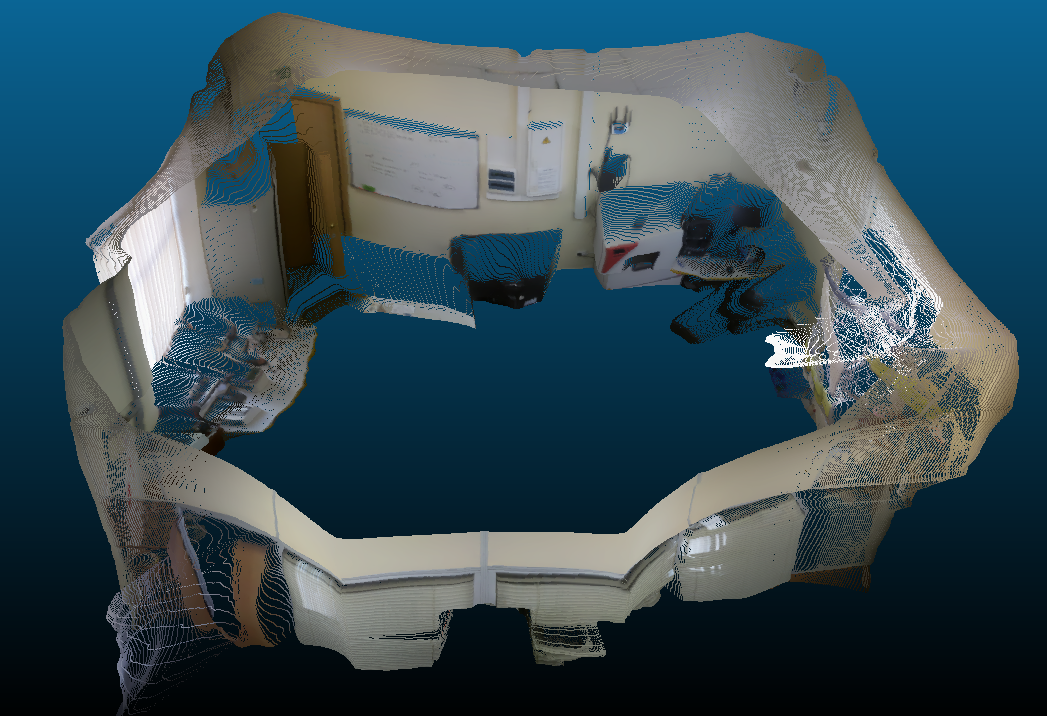
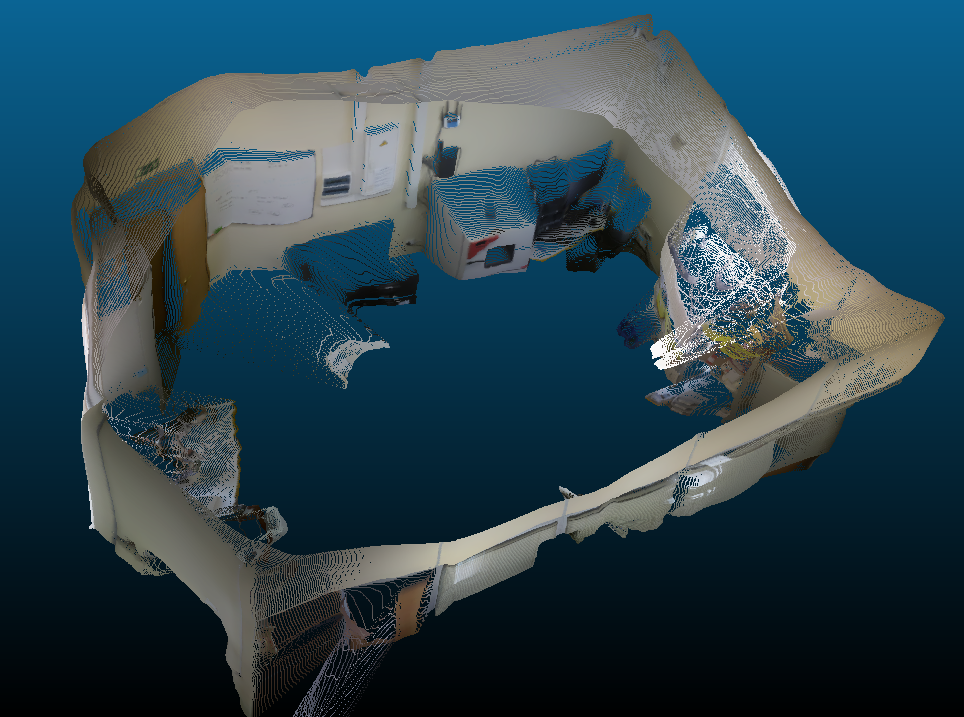
update algorithm match edges

diff --git a/match_difference.py b/match_difference.py
@@ -67,7 +67,7 @@ def calib_mask(dup_l,dup_r,threshold):
     mask_right=np.zeros((len(dup_r),len(dup_r[0])))
     for i in range(len(dup_l)):
         for j in range(len(dup_l[0])):
-            if (dup_l[i,j]>threshold and dup_r[i-1,j]>threshold) or (dup_l[i,j]<threshold and dup_r[i-1,j]<threshold):
+            if (dup_l[i,j]>threshold and dup_r[i-1,j]>threshold)or (dup_l[i,j]<threshold and dup_r[i-1,j]<threshold):
                 mask_left[i][j] = 0
             elif dup_l[i,j]>threshold and dup_r[i-1,j]<threshold:
                 mask_left[i][j] = 1
@@ -152,49 +152,6 @@ def delta_update(delta,flag):
                 delta_n[i] = 0
     return delta_n         
 
-def calib_depth(depths,mask_left,mask_right,delta):
-    depths_calib = [row.copy() for row in depths]
-    dy = np.array([(delta[:,i+5]-delta[:,i])/5 for i in range(len(delta[0])-5)]).T
-    last_colum = dy[:,-1]
-    for i in range(5):
-        dy = np.append(dy,last_colum[:,np.newaxis],axis=1)
-    for index in range(len(depths)):
-        # print(dy[index])
-        arg = np.argwhere(np.abs(dy[index])>0.04).flatten()
-        if len(arg) > 1:
-            new_arg = [arg[0]]
-            for i in range(1,len(arg)):
-                if arg[i]-arg[i-1]>1:
-                    new_arg = np.append(new_arg,arg[i])
-            if arg[-1]-arg[-2]==1:
-                new_arg[-1] = arg[-1]
-            new_arg =[x for x in new_arg if x>10 and x<len(dy[index])-10]
-            print(index,new_arg)
-            check = np.zeros(len(new_arg))
-            for i in range(len(new_arg)-1):
-                print(mask_left[index][new_arg[i]:new_arg[i+1]])
-                if np.sum(mask_left[index][new_arg[i]:new_arg[i+1]]==0)/(new_arg[i+1]-new_arg[i]) < 0.5:
-                    check[i] = True
-                    if i>0 and check[i-1] == True:
-                        delta[index][new_arg[i]:new_arg[i+1]] = np.full(new_arg[i+1]-new_arg[i],delta[index][new_arg[i-1]])
-                    else:
-                        delta[index][new_arg[i]:new_arg[i+1]] = np.full(new_arg[i+1]-new_arg[i],delta[index][new_arg[i]])
-    for index in range(len(depths)):
-        p1 = np.sum(delta[index]>0)/(len(delta[index]))
-        p2 = np.sum(delta[index]<0)/(len(delta[index]))
-        p3 = np.sum(delta[index-1]>0)/(len(delta[index-1]))
-        p4 = np.sum(delta[index-1]<0)/(len(delta[index-1]))
-        if (p1>0.9 and p4>0.9) or (p2>0.9 and p3>0.9):
-            for i in range(0,len(depths[index-1][0])):
-                depths_calib[index-1][:,i] += (-delta[index-1]/2*(len(depths[index-1][0])-1-i)+delta[index]/2*i)/(len(depths[index-1][0])-1)
-        else:
-            center = int(len(depths[index-1][0])/2)
-            for i in range(0,center):        
-                depths_calib[index-1][:,i] += -delta[index-1]/2*(1-i/center)
-            for i in range(-1,-center,-1):
-                depths_calib[index-1][:,i] += delta[index]/2*(1-abs(i+1)/center)
-    return depths_calib
- 
 def new_depth(depths,mask_left,mask_right,delta):
     depths_new = [row.copy() for row in depths]
     dy = np.array([(delta[:,i+5]-delta[:,i])/5 for i in range(len(delta[0])-5)]).T
@@ -214,6 +171,63 @@ def new_depth(depths,mask_left,mask_right,delta):
             depths_new[index-1][:,i] += new_delta/2*(1-abs(i+1)/center)
     return depths_new
 
+def calib_depth(depths,dup_left,dup_right,delta,step_diff,threshold):
+    depths_calib = [row.copy() for row in depths]
+    dy = np.array([(delta[:,i+step_diff]-delta[:,i]) for i in range(len(delta[0])-step_diff)]).T
+    last_colum = dy[:,-1]
+    for i in range(int(step_diff/2)):
+        dy = np.insert(dy,i,last_colum,axis=1)
+    for i in range(int(step_diff/2),step_diff):
+        dy = np.append(dy,last_colum[:,np.newaxis],axis=1)
+    for index in range(len(depths)):
+        # print(dy[index])
+        arg = np.argwhere(np.abs(dy[index])>0.18).flatten()
+        if len(arg) > 1:
+            # if arg[0]<10:
+            # arg = np.insert(arg,0,0)
+            # # if arg[-1]>depths[index].shape[1]-10:
+            # arg = np.append(arg,depths[index].shape[1]-2)
+            # arg = np.append(arg,depths[index].shape[1]-1)
+            new_arg = [0]
+            for i in range(1,len(arg)):
+                if arg[i]-arg[i-1]>1:
+                    new_arg = np.append(new_arg,arg[i-1])
+            if arg[-1]-arg[-2]==1:
+                new_arg = np.append(new_arg,arg[-1])
+            new_arg = np.append(new_arg,len(delta[index])-1)
+            # new_arg =[x for x in new_arg if x>10 and x<len(dy[index])-10]
+            print(index,arg,new_arg)
+            check = np.zeros(len(new_arg))
+            for i in range(len(new_arg)-1):
+                print(dup_left[index][new_arg[i]:new_arg[i+1]])
+                print(dup_right[index-1][new_arg[i]:new_arg[i+1]])
+                if np.sum((dup_left[index][new_arg[i]:new_arg[i+1]]>=threshold) &\
+                    (dup_right[index-1][new_arg[i]:new_arg[i+1]]>=threshold))/(new_arg[i+1]-new_arg[i]) < 0.75\
+                    and new_arg[i+1]-new_arg[i]<len(delta[index])/2:
+                    check[i] = True
+                    if new_arg[i]==0:
+                        delta[index][new_arg[i]:new_arg[i+1]] = np.zeros(new_arg[i+1]-new_arg[i])
+                    elif i>0 and check[i-1] == True:
+                        delta[index][new_arg[i]:new_arg[i+1]] = np.full(new_arg[i+1]-new_arg[i],delta[index][new_arg[i-1]])
+                    else:
+                        delta[index][new_arg[i]:new_arg[i+1]] = np.full(new_arg[i+1]-new_arg[i],delta[index][new_arg[i]])
+    for index in range(len(depths)):
+        #Check if left and right egdes are needed to turn one way
+        p1 = np.sum(delta[index]>0)/(len(delta[index]))
+        p2 = np.sum(delta[index]<0)/(len(delta[index]))
+        p3 = np.sum(delta[index-1]>0)/(len(delta[index-1]))
+        p4 = np.sum(delta[index-1]<0)/(len(delta[index-1]))
+        if (p1>0.9 and p4>0.9) or (p2>0.9 and p3>0.9):
+            for i in range(0,len(depths[index-1][0])):
+                depths_calib[index-1][:,i] += (-delta[index-1]/2*(len(depths[index-1][0])-1-i)+delta[index]/2*i)/(len(depths[index-1][0])-1)
+        else:
+            center = int(len(depths[index-1][0])/2)
+            for i in range(0,center):        
+                depths_calib[index-1][:,i] += -delta[index-1]/2*(1-i/center)
+            for i in range(-1,-center,-1):
+                depths_calib[index-1][:,i] += delta[index]/2*(1-abs(i+1)/center)
+    return depths_calib,dy
+
 def match_diff(args):    
     depths = []
     images = []
@@ -221,22 +235,23 @@ def match_diff(args):
     for index in range(int(args.divide)):
         img = cv2.imread("{0}/{1}/{3}/img/{1}-{2}-{3}.png".format(args.inout_directory,args.folder,index,args.shift),cv2.IMREAD_COLOR)
         # print(img.shape)
-        depth = np.load("{0}/{1}/{3}/first_depth/{1}-depth-{2}-{3}.npy".format(args.inout_directory,args.folder,index,args.shift))
+        depth = np.load("{0}/{1}/{3}/calib_param/{1}-depth-{2}-{3}.npy".format(args.inout_directory,args.folder,index,args.shift))
         # depth = np.polyval(coeff,depth)
         depths.append(depth)
         images.append(img)
 
     dup_left = calib_hoz_left(images,25,5,5)
     dup_right = calib_hoz_right(images,25,5,5)
-    print(dup_right[3])
-    print(dup_left[4])
+    # print(dup_right[3][58:135])
+    # print(dup_left[4][58:135])
 
     delta = np.array([depths[index][:,0]-depths[index-1][:,-1] for index in range(int(args.divide))])
-    mask_left,mask_right = calib_mask(dup_left,dup_right,40)
+    # mask_left,mask_right = calib_mask(dup_left,dup_right,35)
     # print(mask_left)
     # print(mask_right)
     # depths_new = new_depth(depths,mask_left,mask_right,delta)
-    depths_new = calib_depth(depths,mask_left,mask_right,delta)
+    step_diff = 5
+    depths_new,dy = calib_depth(depths,dup_left,dup_right,delta,step_diff,15)
 
     for index in range(int(args.divide)):
         d = depths[index][:,0]-depths[index-1][:,-1]
@@ -245,13 +260,13 @@ def match_diff(args):
         print(d.min(),d.max(),d.mean())
         plt.title(str(index))
         plt.plot(np.arange(0,len(d),1),d,'y')
-        dy = [(d[i+5]-d[i])/5 for i in range(len(d)-5)]
+        # dy = [(d[i+step_diff]-d[i]) for i in range(len(d)-step_diff)]
         plt.plot(np.arange(0,len(d),1),depths_new[index][:,0],'green')
         plt.plot(np.arange(0,len(d),1),depths_new[index-1][:,-1],'blue')
         plt.plot(np.arange(0,len(d),1),depths[index][:,0],'black')
         plt.plot(np.arange(0,len(d),1),depths[index-1][:,-1],'cyan')
         # plt.plot(np.arange(0,len(d),1),(depths[index][:,0]+depths[index-1][:,-1])/2,'black')
-        plt.plot(np.arange(0,len(dy),1),dy,'r')
+        plt.plot(np.arange(0,len(dy[index]),1),dy[index],'r')
         plt.show()
 
 
@@ -266,7 +281,7 @@ if __name__ == '__main__':
     parser = argparse.ArgumentParser()
     parser.add_argument('-io','--inout_directory', help="directory to images", default="output")
     parser.add_argument('-f','--folder', help="folder of input images", default="27072023-1628")
-    parser.add_argument('-s','--shift', help="shift of input images", default="0")
+    parser.add_argument('-s','--shift', help="shift of input images", default="100")
     parser.add_argument('-d','--divide', help="divide coefficent of input images", default="6")
     
     args = parser.parse_args()

diff --git a/solve_paras_each_part.py b/solve_paras_each_part.py
@@ -1,0 +1,108 @@
+import numpy as np
+from matplotlib import pyplot as plt
+import cv2
+import glob
+import math
+from pathlib import Path
+import pandas as pd
+import argparse
+
+def solve_paras(args):
+    depths = []
+    for index in range(int(args.divide)):
+        # depth = np.load("output/{0}/{2}/match_diff/{0}-depth-{1}-{2}.npy".format(folder,index,shift))
+        depth = np.load("{0}/{1}/{3}/first_depth/{1}-depth-{2}-{3}.npy".format(args.inout_directory,args.folder,index,args.shift))
+        depths.append(depth)
+    width = sum(depths[i].shape[1] for i in range(int(args.divide)))
+    # print(width)
+
+    point_distance_file = pd.read_csv(args.inout_directory+'/'+args.folder+'/distance.csv')
+    sorted_point_distance = point_distance_file.sort_values('xp')
+    # print(sorted_point_distance)
+    
+    output_directory = Path(args.inout_directory+'/'+args.folder+'/'+args.shift+'/calib_param')
+    output_directory.mkdir(parents=True,exist_ok=True)
+    
+    id_point=0
+    while sorted_point_distance.iloc[id_point]['xp']<int(args.shift):
+        id_point+= 1
+    for index in range(len(depths)):
+        left = int(index*width/int(args.divide))+int(args.shift)
+        right = int((index+1)*width/int(args.divide))+int(args.shift)
+        print(index,left,right)
+        data=[]
+        coordinates=[]
+        # print(sorted_point_distance.iloc[id_point])
+        while id_point<len(sorted_point_distance) and sorted_point_distance.iloc[id_point]['xp']<right:
+            row = sorted_point_distance.iloc[id_point]
+            col_part = int(row['xp'] - left)
+            depth_in_map = row['Distance']/100*math.cos(
+                (col_part-depths[index].shape[1]/2)/depths[index].shape[1]*2*math.pi/int(args.divide))
+            print(row['Angle'],col_part,row['yp'],depths[index][int(row['yp']),col_part],depth_in_map)
+            data.append([depths[index][int(row['yp']),col_part],depth_in_map])
+            coordinates.append([col_part,int(row['yp'])])
+            id_point+=1
+            if id_point == len(sorted_point_distance) and int(args.shift)!=0:
+                id_point = 0
+                left = 0
+                right = right - width
+ 
+        data = np.array(data)
+        data = data[data[:,0].argsort()]
+        coeff = np.polyfit(data[:,0],data[:,1],1)
+        print(coeff)
+        y_new = np.polyval(coeff,data[:,0])
+        dis = abs(y_new - data[:,1])
+
+        # print(dis)
+        # print(data[:,1]-data[:,0])
+        # print(y_new-data[:,0])
+        print(dis.mean(),dis.max(),dis.min())
+        print("original depth: ",depths[index].mean(),depths[index].max(),depths[index].min())
+        new_depth = np.polyval(coeff,depths[index])
+        print("new depth: ",new_depth.mean(),new_depth.max(),new_depth.min())
+        # plt.scatter(data[0],abs(data[1]-data[0]))
+        # plt.scatter(data[0],abs(y_new-data[0]))
+        # plt.scatter(data[:,0],data[:,1])
+        # plt.plot(data[:,0],y_new)
+        # plt.show()
+        
+        # draw circle    
+        # image_i = cv2.imread('input/'+args.folder+"/"+str(int(row['Angle']))+"/l.jpg")
+        # image_i = cv2.resize(image_i,(511,384),interpolation = cv2.INTER_AREA)
+        
+        img_new = depths[index].copy()
+        # img_new = cv2.imread("output/{0}/{1}/img/{0}-{2}-{1}.png".format(folder,shift,part_number))
+        # img_new = cv2.cvtColor(img_new, cv2.COLOR_BGR2RGB)
+        
+        for coord in coordinates:
+            cv2.circle(img_new, coord, 5, (0, 0, 255), thickness=2)
+        # cv2.circle(image_i, (int(row['x']),int(row['y'])), 5, (0, 0, 255), thickness=2)
+        
+        fig = plt.figure(figsize=(12, 6))
+        ax = fig.add_subplot(1, 2, 2)
+        ax.scatter(data[:,0],data[:,1])
+        ax.plot(data[:,0],y_new)
+        
+        ax = fig.add_subplot(1, 2, 1)
+        ax.imshow(img_new,cmap='jet_r')
+        ax.set_title(str(index)+' panorama',fontsize=10)
+        
+        fig.tight_layout()
+        plt.show()
+
+        # Save
+        np.save("{0}/{1}/{3}/calib_param/{1}-depth-{2}-{3}.npy".format
+                (args.inout_directory,args.folder,index,args.shift),np.polyval(coeff,depths[index]))
+        print("save "+str(index)) 
+        
+
+if __name__ == '__main__':
+    parser = argparse.ArgumentParser()
+    parser.add_argument('-io','--inout_directory', help="directory to images", default="output")
+    parser.add_argument('-f','--folder', help="folder of input images", default="27072023-1628")
+    parser.add_argument('-s','--shift', help="shift of input images", default="100")
+    parser.add_argument('-d','--divide', help="divide coefficent of input images", default="6")
+    
+    args = parser.parse_args()
+    solve_paras(args)

diff --git a/solve_paras.py b/solve_paras.py
@@ -11,7 +11,7 @@ def solve_paras(args):
     depths = []
     for index in range(int(args.divide)):
         # depth = np.load("output/{0}/{2}/match_diff/{0}-depth-{1}-{2}.npy".format(folder,index,shift))
-        depth = np.load("{0}/{1}/{3}/match_diff/{1}-depth-{2}-{3}.npy".format(args.inout_directory,args.folder,index,args.shift))
+        depth = np.load("{0}/{1}/{3}/first_depth/{1}-depth-{2}-{3}.npy".format(args.inout_directory,args.folder,index,args.shift))
         depths.append(depth)
     width = sum(depths[i].shape[1] for i in range(int(args.divide)))
     # print(width)
@@ -30,7 +30,7 @@ def solve_paras(args):
         data.append([depths[part_number][int(row['yp']),col_part],row['Distance']/100])
         
         # # draw circle    
-        # image_i = cv2.imread('input/'+folder+"/"+str(int(row['Angle']))+"/l.jpg")
+        # image_i = cv2.imread('input/'+args.folder+"/"+str(int(row['Angle']))+"/l.jpg")
         # image_i = cv2.resize(image_i,(511,384),interpolation = cv2.INTER_AREA)
         
         # img_new = depths[part_number].copy()
@@ -86,7 +86,7 @@ if __name__ == '__main__':
     parser = argparse.ArgumentParser()
     parser.add_argument('-io','--inout_directory', help="directory to images", default="output")
     parser.add_argument('-f','--folder', help="folder of input images", default="27072023-1628")
-    parser.add_argument('-s','--shift', help="shift of input images", default="0")
+    parser.add_argument('-s','--shift', help="shift of input images", default="100")
     parser.add_argument('-d','--divide', help="divide coefficent of input images", default="6")
     
     args = parser.parse_args()

diff --git a/calib_pcd_panorama.py b/calib_pcd_panorama.py
@@ -69,7 +69,7 @@ if __name__ == '__main__':
     parser = argparse.ArgumentParser()
     parser.add_argument('-io','--inout_directory', help="directory to images", default="output")
     parser.add_argument('-f','--folder', help="folder of input images", default="27072023-1628")
-    parser.add_argument('-s','--shift', help="shift of input images", default="0")
+    parser.add_argument('-s','--shift', help="shift of input images", default="100")
     parser.add_argument('-d','--divide', help="divide coefficent of input images", default="6")
     
     args = parser.parse_args()

diff --git a/search_point_in_panorama.py b/search_point_in_panorama.py
@@ -116,7 +116,7 @@ def search_point(args):
 if __name__ == '__main__':
     parser = argparse.ArgumentParser()
     parser.add_argument('-i','--input_directory', help="directory to input images", default="input")
-    parser.add_argument('-f','--folder', help="folder of input images", default="27072023-1628")
+    parser.add_argument('-f','--folder', help="folder of input images", default="25072023-1610")
     parser.add_argument('-o','--output_directory', help="directory to input images", default="output")
     args = parser.parse_args()
     search_point(args) 
